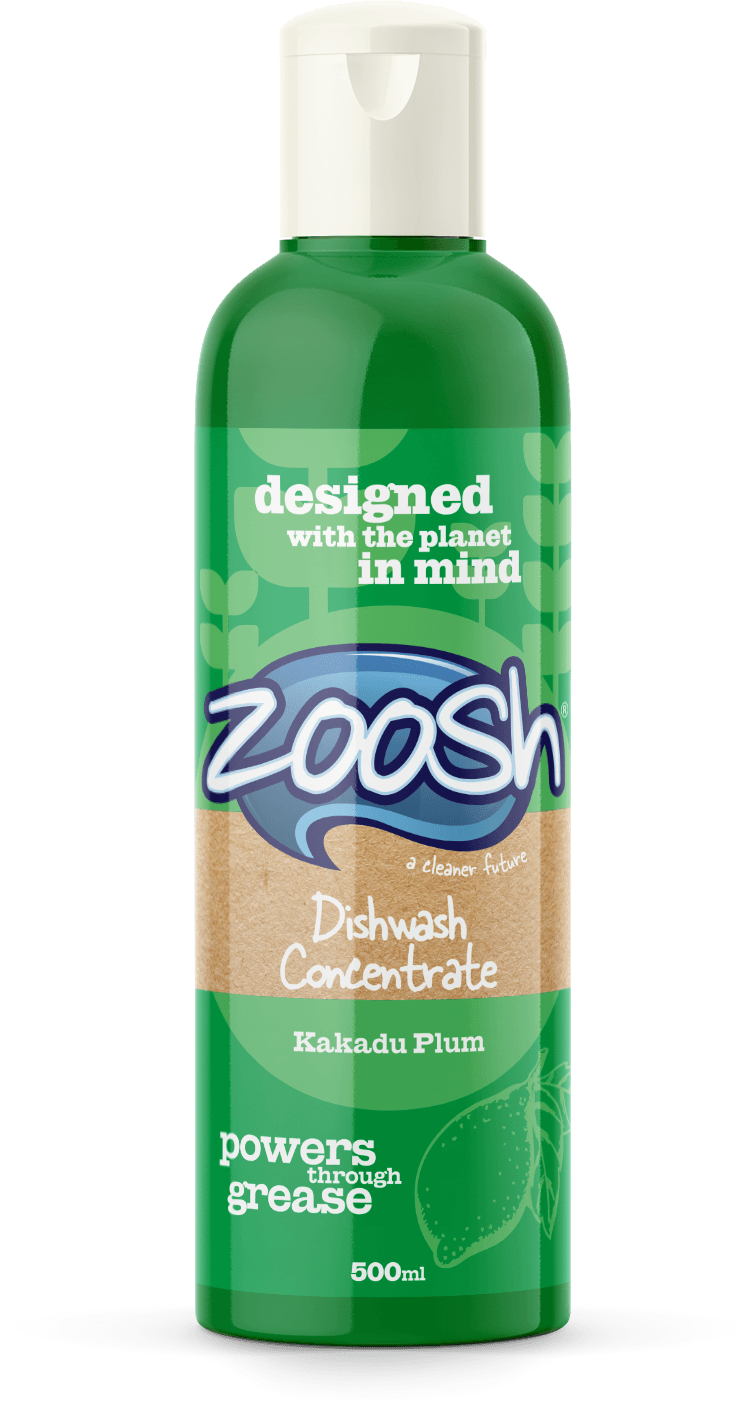
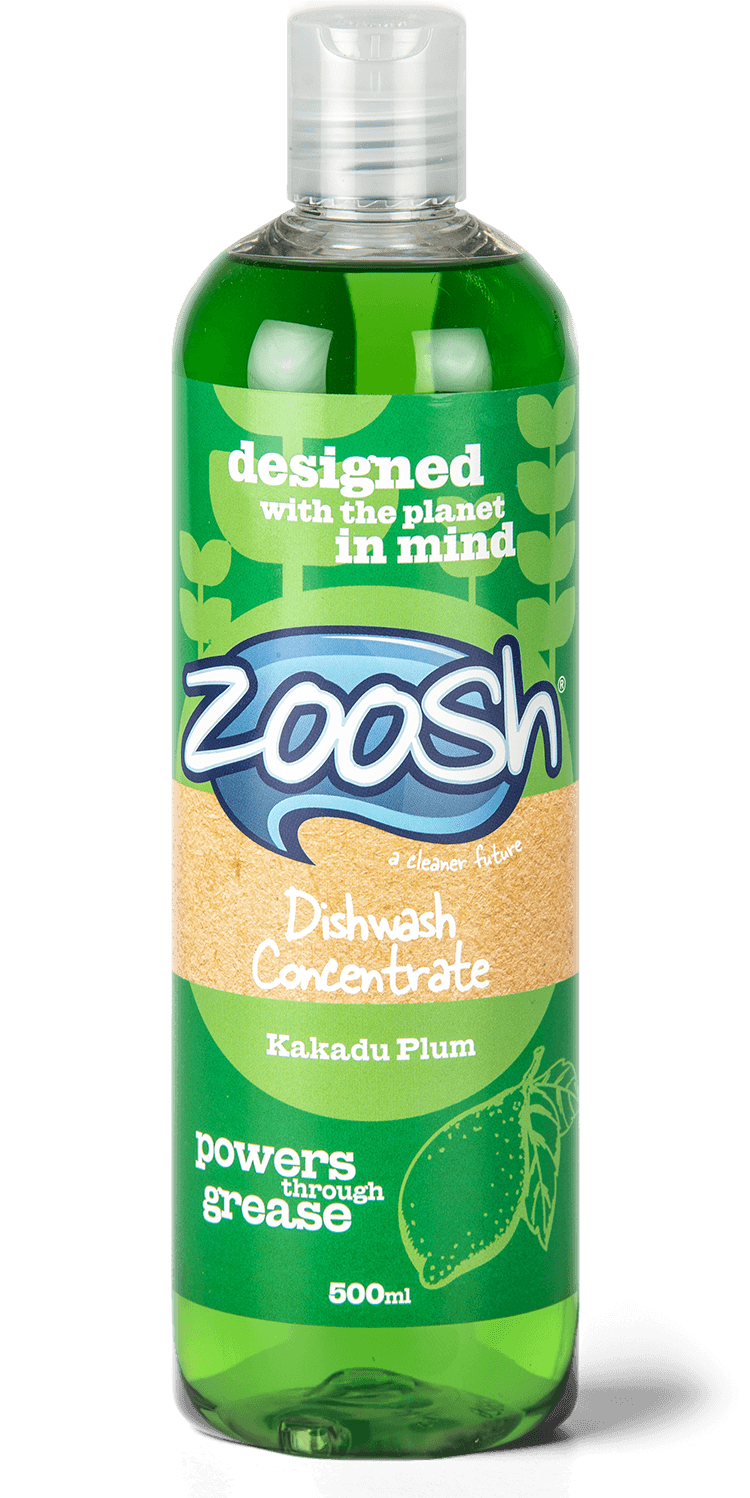
features dot points list added and new product images

diff --git a/src/components/product.js b/src/components/product.js
@@ -3,6 +3,13 @@ import React from "react"
 import ProductIcons from "../components/product-icons"
 
 const Product = ({ data }) => {
+    // console.log(data)
+    const features = data.dotpoints.map((dotpoint, i) => (
+        <li key={i} style={{ listStyleType: "none" }}>
+            {dotpoint}
+        </li>
+    ))
+
     return (
         <div className="product-wrap">
             <div
@@ -34,15 +41,26 @@ const Product = ({ data }) => {
                         return <p key={`key_${index}`}>{string}</p>
                     })}
                 </div>
+                <div>
+                    <h4>HOW TO USE</h4>
+                    {data.how_to_use.split("\\n").map((string, index) => {
+                        return <p key={`key_${index}`}>{string}</p>
+                    })}
+                </div>
                 <div
                     style={{
                         marginBottom: "4rem",
                     }}
                 >
-                    <h4>HOW TO USE</h4>
-                    {data.how_to_use.split("\\n").map((string, index) => {
-                        return <p key={`key_${index}`}>{string}</p>
-                    })}
+                    <h4>FEATURES & BENEFITS</h4>
+                    <ul
+                        style={{
+                            paddingLeft: "0",
+                            marginBottom: "0",
+                        }}
+                    >
+                        {features}
+                    </ul>
                 </div>
                 <ProductIcons />
             </div>

diff --git a/src/components/footer.js b/src/components/footer.js
@@ -52,14 +52,14 @@ const Footer = () => {
                                 Stay Connected
                             </p>
                             <p>
-                                <i class="fas fa-fw fa-lg fa-map-marker-alt"></i>
+                                <i className="fas fa-fw fa-lg fa-map-marker-alt"></i>
                                 &nbsp;&nbsp;&nbsp;
                                 <span>
                                     124 Days Road, Ferryden Park SA 5010
                                 </span>
                             </p>
                             <p>
-                                <i class="fas fa-fw fa-lg fa-phone-alt"></i>
+                                <i className="fas fa-fw fa-lg fa-phone-alt"></i>
                                 &nbsp;&nbsp;&nbsp;
                                 <span>
                                     <a href="tel:(08) 8406 0000">
@@ -68,7 +68,7 @@ const Footer = () => {
                                 </span>
                             </p>
                             <p>
-                                <i class="fas fa-fw fa-lg fa-envelope"></i>
+                                <i className="fas fa-fw fa-lg fa-envelope"></i>
                                 &nbsp;&nbsp;&nbsp;
                                 <span>
                                     <a href="mailto:info@zoosh.com.au">

diff --git a/src/styles/global.css b/src/styles/global.css
@@ -61,13 +61,18 @@ img {
     max-width: 100%;
 }
 
-p {
+p,
+li {
     font-family: "Open Sans", sans-serif;
     font-size: 1.2rem;
     line-height: 1.6;
     font-weight: 300;
     margin: 0;
     margin-bottom: 1rem;
+}
+
+li {
+    margin-bottom: 0;
 }
 
 #footer p {
